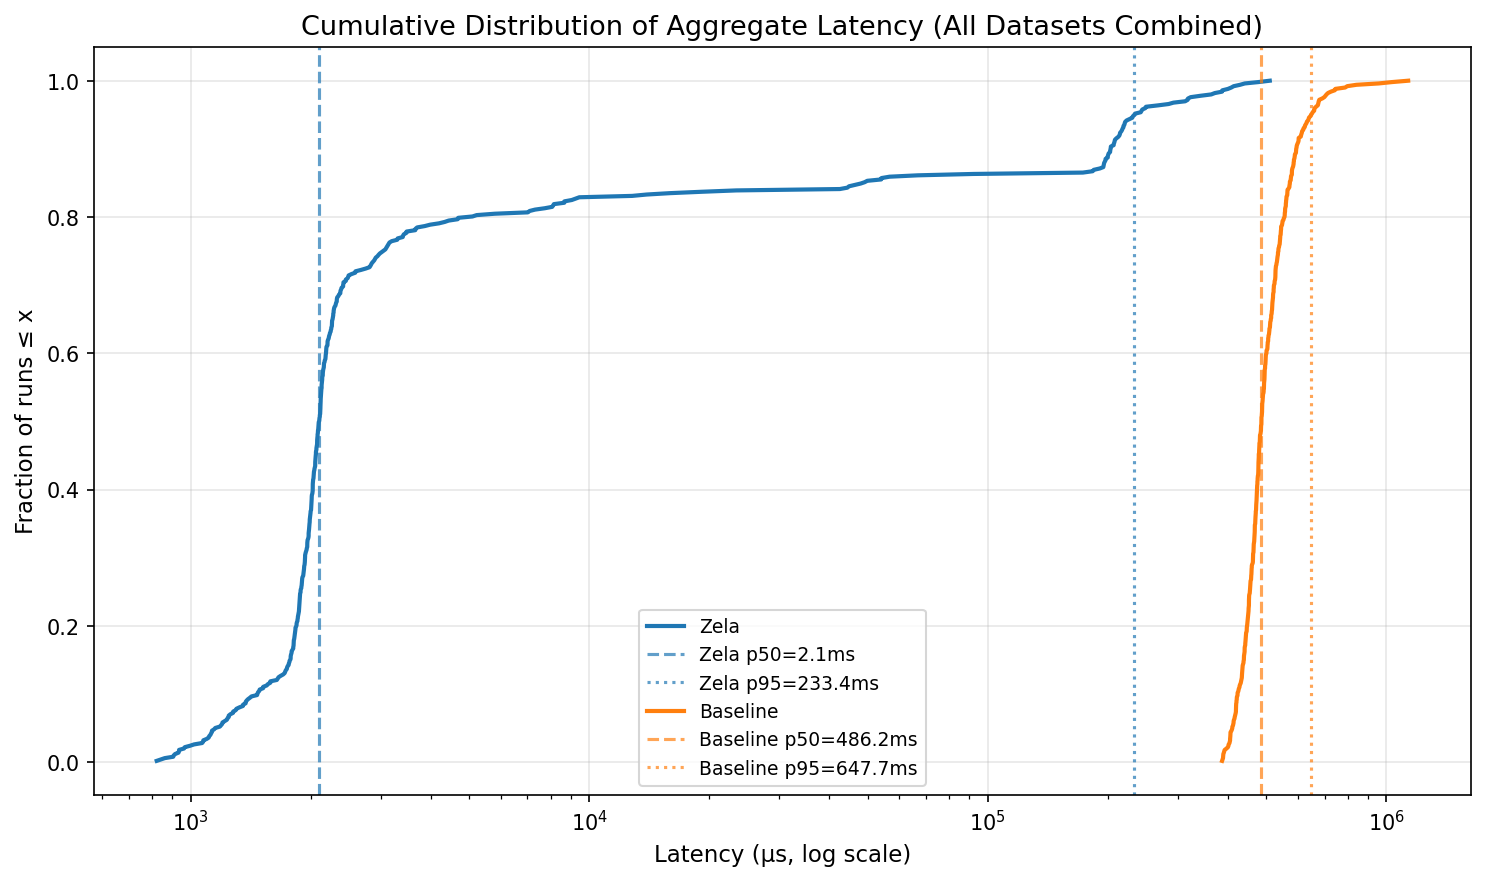
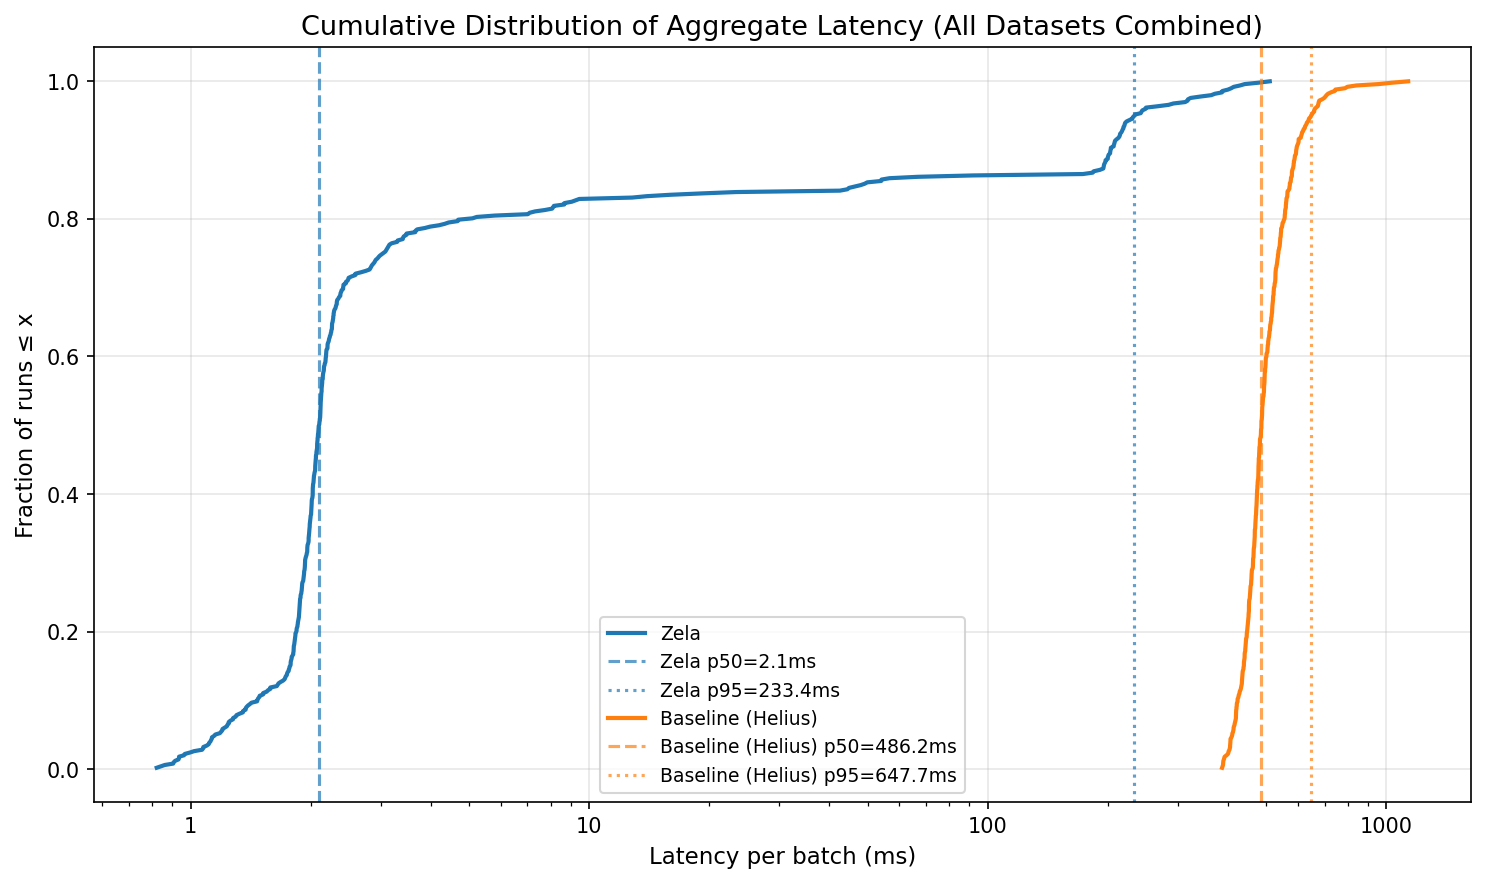
docs(M4): improve figure readability with ms units, integer log ticks, and simplified slot consistency chart
- All latency axes converted from µs to ms for reader clarity
- Log-scale axes now display integer tick labels (1, 10, 100, 1000)
  instead of scientific notation (10^0, 10^1, 10^2, 10^3)
- Removed 'log scale' annotations from axis labels (tick distribution
  already conveys the scale type)
- slot_consistency.png redesigned as non-stacked grouped bars showing
  only the single-slot rate per window, making the 88-97% vs 6-11%
  contrast visually immediate
- Renamed 'Baseline' to 'Baseline (Helius)' across all figures for
  clarity about which RPC endpoint was used
- Removed per_feed_latency.png image reference from README (file kept
  on disk); the per-feed data table in README conveys the same info
  more precisely
- README captions rewritten to match the new chart designs; CDF
  section restructured so the 'how to read' note precedes the image
  and interpretive prose follows without duplicating the plateau
  mention

diff --git a/analysis/analyze.py b/analysis/analyze.py
@@ -9,6 +9,15 @@ import pandas as pd
 import matplotlib
 matplotlib.use("Agg")
 import matplotlib.pyplot as plt
+from matplotlib.ticker import FuncFormatter
+
+
+def _plain_log(x, _pos):
+    """Format log-scale tick labels as plain integers (1, 10, 100) instead of 10^N."""
+    return f"{int(x)}" if x >= 1 else f"{x:g}"
+
+
+PLAIN_LOG = FuncFormatter(_plain_log)
 
 FEEDS_COLS = {
     "run_id", "timestamp_ms", "side", "symbol", "pubkey",
@@ -166,14 +175,15 @@ def compute_per_feed(all_feeds):
 def fig_latency_distribution(datasets):
     # Facet grid: one row per dataset, two columns (Zela log-scale, Baseline linear).
     n = len(datasets)
-    fig, axes = plt.subplots(n, 2, figsize=(12, 2.4 * n + 1.5), squeeze=False)
+    fig, axes = plt.subplots(n, 2, figsize=(12, 2.4 * n + 1.5), squeeze=False, sharey="col")
 
     # Shared x-axis ranges within each column so rows are visually comparable.
+    # All latency values displayed in milliseconds (raw data in summary.json stays µs).
     all_z = pd.concat([ds["aggs"][ds["aggs"]["side"] == "zela"]["wall_clock_total_us"]
-                       for ds in datasets]).dropna()
+                       for ds in datasets]).dropna() / 1000.0
     all_b = pd.concat([ds["aggs"][ds["aggs"]["side"] == "baseline"]["wall_clock_total_us"]
-                       for ds in datasets]).dropna()
-    z_bins = np.geomspace(max(1, all_z.min()), all_z.max(), 40) if len(all_z) > 1 else 20
+                       for ds in datasets]).dropna() / 1000.0
+    z_bins = np.geomspace(max(0.001, all_z.min()), all_z.max(), 40) if len(all_z) > 1 else 20
     b_bins = np.linspace(all_b.min(), all_b.max(), 40) if len(all_b) > 1 else 20
     z_xlim = (all_z.min() * 0.9, all_z.max() * 1.1) if len(all_z) else None
     b_xlim = (all_b.min() * 0.95, all_b.max() * 1.05) if len(all_b) else None
@@ -183,31 +193,36 @@ def fig_latency_distribution(datasets):
         ax_b = axes[i, 1]
         color = DS_COLS[i % len(DS_COLS)]
         aggs = ds["aggs"]
-        z = aggs[aggs["side"] == "zela"]["wall_clock_total_us"].dropna()
-        b = aggs[aggs["side"] == "baseline"]["wall_clock_total_us"].dropna()
+        z = aggs[aggs["side"] == "zela"]["wall_clock_total_us"].dropna() / 1000.0
+        b = aggs[aggs["side"] == "baseline"]["wall_clock_total_us"].dropna() / 1000.0
         if len(z) > 0:
             ax_z.hist(z, bins=z_bins, color=color, alpha=0.85, edgecolor="white", linewidth=0.3)
         if len(b) > 0:
             ax_b.hist(b, bins=b_bins, color=color, alpha=0.85, edgecolor="white", linewidth=0.3)
 
         ax_z.set_xscale("log")
+        ax_z.xaxis.set_major_formatter(PLAIN_LOG)
         if z_xlim:
             ax_z.set_xlim(z_xlim)
         if b_xlim:
             ax_b.set_xlim(b_xlim)
-        ax_z.set_ylabel(short_ds(ds["name"]), fontsize=11, rotation=0, ha="right",
-                        va="center", labelpad=8)
+        ax_z.set_ylabel("Runs", fontsize=9)
+        ax_z.annotate(
+            short_ds(ds["name"]),
+            xy=(-0.22, 0.5), xycoords="axes fraction",
+            ha="right", va="center", fontsize=11, fontweight="bold",
+        )
         ax_b.tick_params(labelleft=False)
 
         if i == 0:
             ax_z.set_title("Zela", fontsize=12)
-            ax_b.set_title("Baseline", fontsize=12)
+            ax_b.set_title("Baseline (Helius)", fontsize=12)
         if i < n - 1:
             ax_z.tick_params(labelbottom=False)
             ax_b.tick_params(labelbottom=False)
 
-    axes[n - 1, 0].set_xlabel("Latency (µs, log scale)", fontsize=11)
-    axes[n - 1, 1].set_xlabel("Latency (µs)", fontsize=11)
+    axes[n - 1, 0].set_xlabel("Latency per batch (ms)", fontsize=11)
+    axes[n - 1, 1].set_xlabel("Latency per batch (ms)", fontsize=11)
     fig.suptitle(f"Aggregate Latency Distribution Across {n} Datasets (100 runs each)", fontsize=13)
     fig.tight_layout(rect=(0, 0, 1, 0.98))
     fig.savefig(FIGURES_DIR / "latency_distribution.png", dpi=150, bbox_inches="tight")
@@ -215,36 +230,26 @@ def fig_latency_distribution(datasets):
 
 
 def fig_slot_consistency(datasets):
-    # Grouped stacked bar chart: two bars per dataset (Zela, Baseline), stacked by slot count.
+    # Grouped bars (non-stacked): single-slot rate for Zela and Baseline per window.
     ds_labels = [short_ds(ds["name"]) for ds in datasets]
     x = np.arange(len(datasets))
-    width = 0.35
-    side_colors = {
-        "zela":     {"1": "#1f77b4", "2": "#6baed6", "3+": "#c6dbef"},
-        "baseline": {"1": "#ff7f0e", "2": "#fdae6b", "3+": "#fee6ce"},
-    }
+    width = 0.38
+
+    def one_slot_pct(df):
+        t = len(df)
+        return float((df["unique_slots_count"] == 1).sum()) / t * 100 if t else 0.0
+
+    z_vals = [one_slot_pct(ds["aggs"][ds["aggs"]["side"] == "zela"]) for ds in datasets]
+    b_vals = [one_slot_pct(ds["aggs"][ds["aggs"]["side"] == "baseline"]) for ds in datasets]
+
     fig, ax = plt.subplots(figsize=(10, 6))
-    for side, offset in [("zela", -width / 2), ("baseline", width / 2)]:
-        s1, s2, s3 = [], [], []
-        for ds in datasets:
-            df = ds["aggs"][ds["aggs"]["side"] == side]
-            t = len(df)
-            v1 = float((df["unique_slots_count"] == 1).sum()) / t * 100 if t else 0
-            v2 = float((df["unique_slots_count"] == 2).sum()) / t * 100 if t else 0
-            s1.append(v1); s2.append(v2); s3.append(max(0.0, 100 - v1 - v2))
-        xpos = x + offset
-        sc = side_colors[side]
-        label = side.capitalize()
-        ax.bar(xpos, s1, width=width, color=sc["1"],  label=f"{label} – 1 slot")
-        ax.bar(xpos, s2, width=width, color=sc["2"],  label=f"{label} – 2 slots",
-               bottom=s1)
-        ax.bar(xpos, s3, width=width, color=sc["3+"], label=f"{label} – 3+ slots",
-               bottom=[a + b for a, b in zip(s1, s2)])
+    ax.bar(x - width / 2, z_vals, width=width, color=Z_COL, label="Zela")
+    ax.bar(x + width / 2, b_vals, width=width, color=B_COL, label="Baseline (Helius)")
     ax.set_xticks(x)
     ax.set_xticklabels(ds_labels, rotation=45, ha="right", fontsize=10)
-    ax.set_ylabel("% of runs", fontsize=11)
-    ax.set_ylim(0, 105)
-    ax.legend(fontsize=9, loc="center left", bbox_to_anchor=(1.02, 0.5))
+    ax.set_ylabel("% of runs in a single slot", fontsize=11)
+    ax.set_ylim(0, 100)
+    ax.legend(fontsize=10, loc="center right")
     ax.set_title("Slot Consistency: Fraction of Runs Returning Within a Single Slot", fontsize=13)
     fig.tight_layout()
     fig.savefig(FIGURES_DIR / "slot_consistency.png", dpi=150, bbox_inches="tight")
@@ -257,18 +262,19 @@ def fig_per_feed_latency(per_feed):
     for ax, side, col, log_scale in [
         (ax_z, "zela", Z_COL, True), (ax_b, "baseline", B_COL, False),
     ]:
-        p50s = np.array([per_feed[s][f"{side}_p50_us"] for s in FEED_ORDER])
-        p95s = np.array([per_feed[s][f"{side}_p95_us"] for s in FEED_ORDER])
+        p50s = np.array([per_feed[s][f"{side}_p50_us"] for s in FEED_ORDER]) / 1000.0
+        p95s = np.array([per_feed[s][f"{side}_p95_us"] for s in FEED_ORDER]) / 1000.0
         err_up = np.maximum(0, p95s - p50s)
         ax.errorbar(x, p50s, yerr=[np.zeros(len(FEED_ORDER)), err_up],
                     fmt="o", color=col, capsize=4, label="p50, error bar to p95")
         ax.set_xticks(x)
         ax.set_xticklabels(FEED_ORDER, rotation=30, ha="right", fontsize=9)
-        ax.set_ylabel("µs", fontsize=11)
+        ax.set_ylabel("ms", fontsize=11)
         ax.set_title(f"{side.capitalize()} per-feed latency", fontsize=11)
         ax.legend(fontsize=9)
         if log_scale:
             ax.set_yscale("log")
+            ax.yaxis.set_major_formatter(PLAIN_LOG)
     fig.suptitle("Per-Feed Latency: Median and p95", fontsize=13)
     fig.tight_layout()
     fig.savefig(FIGURES_DIR / "per_feed_latency.png", dpi=150, bbox_inches="tight")
@@ -279,18 +285,21 @@ def fig_time_of_day(datasets):
     ds_labels = [short_ds(ds["name"]) for ds in datasets]
     fig, (ax_z, ax_b) = plt.subplots(1, 2, figsize=(10, 6))
     for ax, side, col, title in [
-        (ax_z, "zela", Z_COL, "Zela"), (ax_b, "baseline", B_COL, "Baseline"),
+        (ax_z, "zela", Z_COL, "Zela"), (ax_b, "baseline", B_COL, "Baseline (Helius)"),
     ]:
         data = [
-            ds["aggs"][ds["aggs"]["side"] == side]["wall_clock_total_us"].dropna().values
+            ds["aggs"][ds["aggs"]["side"] == side]["wall_clock_total_us"].dropna().values / 1000.0
             for ds in datasets
         ]
         ax.boxplot(data, patch_artist=True,
                    boxprops=dict(facecolor=col, alpha=0.5),
                    medianprops=dict(color="black", linewidth=2))
         ax.set_xticklabels(ds_labels, rotation=45, ha="right", fontsize=9)
-        ax.set_ylabel("wall_clock_total_us (µs)", fontsize=11)
+        ax.set_ylabel("Aggregate batch latency (ms)", fontsize=11)
         ax.set_title(title, fontsize=11)
+    ax_z.set_yscale("log")
+    ax_z.yaxis.set_major_formatter(PLAIN_LOG)
+    ax_z.set_ylabel("Aggregate batch latency (ms)", fontsize=11)
     fig.suptitle("Aggregate Latency by Collection Window", fontsize=13)
     fig.tight_layout()
     fig.savefig(FIGURES_DIR / "time_of_day.png", dpi=150, bbox_inches="tight")
@@ -299,9 +308,9 @@ def fig_time_of_day(datasets):
 
 def fig_cdf(combined_aggs):
     fig, ax = plt.subplots(figsize=(10, 6))
-    for side, col, label in [("zela", Z_COL, "Zela"), ("baseline", B_COL, "Baseline")]:
+    for side, col, label in [("zela", Z_COL, "Zela"), ("baseline", B_COL, "Baseline (Helius)")]:
         vals = combined_aggs[combined_aggs["side"] == side]["wall_clock_total_us"].dropna()
-        vals = vals.sort_values().values
+        vals = vals.sort_values().values / 1000.0  # convert to ms
         if not len(vals):
             continue
         cdf = np.arange(1, len(vals) + 1) / len(vals)
@@ -309,9 +318,10 @@ def fig_cdf(combined_aggs):
         for q, ls in [(50, "--"), (95, ":")]:
             vq = pct(vals, q)
             ax.axvline(vq, color=col, linestyle=ls, alpha=0.7,
-                       label=f"{label} p{q}={vq / 1000:.1f}ms")
+                       label=f"{label} p{q}={vq:.1f}ms")
     ax.set_xscale("log")
-    ax.set_xlabel("Latency (µs, log scale)", fontsize=11)
+    ax.xaxis.set_major_formatter(PLAIN_LOG)
+    ax.set_xlabel("Latency per batch (ms)", fontsize=11)
     ax.set_ylabel("Fraction of runs ≤ x", fontsize=11)
     ax.set_title("Cumulative Distribution of Aggregate Latency (All Datasets Combined)", fontsize=13)
     ax.legend(fontsize=9)

diff --git a/README.md b/README.md
@@ -17,6 +17,10 @@ failed and were filtered, yielding 497 Zela / 500 baseline paired runs.
 - **Slot consistency: Zela holds all 10 feeds in one Solana slot in 91%
   of runs; Baseline does so in 7%.**
 
+Each subplot is a histogram of aggregate batch latency for one
+collection window. X-axis is latency per batch in milliseconds;
+Y-axis is the number of runs that fell into each latency bin.
+
 ![Latency distribution](docs/figures/latency_distribution.png)
 
 ---
@@ -127,6 +131,11 @@ fast-mode median while baseline stays near its usual distribution.
 
 ### Bimodality (the key finding)
 
+The CDF shows what fraction of runs (Y) completed at or below a given
+latency (X). Lower and leftward is faster.
+
+![CDF](docs/figures/cdf.png)
+
 Zela's latency distribution is bimodal. The CDF shows a characteristic
 plateau between approximately 80% and 89% of runs — the gap between
 Zela's "fast mode" (median around 2 ms) and "slow mode" (median around
@@ -134,8 +143,6 @@ Zela's "fast mode" (median around 2 ms) and "slow mode" (median around
 fast mode (< 5 ms), about 12% sit in the slow mode (> 200 ms), and
 about 9% sit in between. Baseline shows no such plateau; its
 distribution is unimodal and tight around 500 ms.
-
-![CDF](docs/figures/cdf.png)
 
 **The frequency of slow-mode events varies with time of day**, and this
 is a stronger statement than "bimodality exists":
@@ -172,6 +179,12 @@ typically complete well inside a single ~400 ms slot. A remote RPC
 client reaching Helius from Prague crosses at least one slot boundary
 in about 93% of runs in the observed data.
 
+Each pair of bars is one collection window, with Zela on the left and
+Baseline on the right. Y-axis shows the percentage of runs where all
+10 feed reads returned within a single Solana slot (a slot is ~400 ms).
+Higher is better; it means the batch produced a consistent cross-asset
+snapshot.
+
 ![Slot consistency](docs/figures/slot_consistency.png)
 
 This matters for workflows that need a consistent multi-asset price
@@ -207,9 +220,12 @@ connections would only see warm-call latency. The per-feed p95 values
 are dominated by the slow-mode events discussed earlier: they measure
 the ceiling during slow-mode, not a steady-state tail.
 
-![Per-feed](docs/figures/per_feed_latency.png)
-
 ### Time of day
+
+Box plots show the distribution of aggregate batch latency per
+collection window. The horizontal line in each box is the median;
+box edges are p25/p75; whiskers extend to typical range; circles are
+outliers (mostly slow-mode events on the Zela side).
 
 ![Time of day](docs/figures/time_of_day.png)
 
